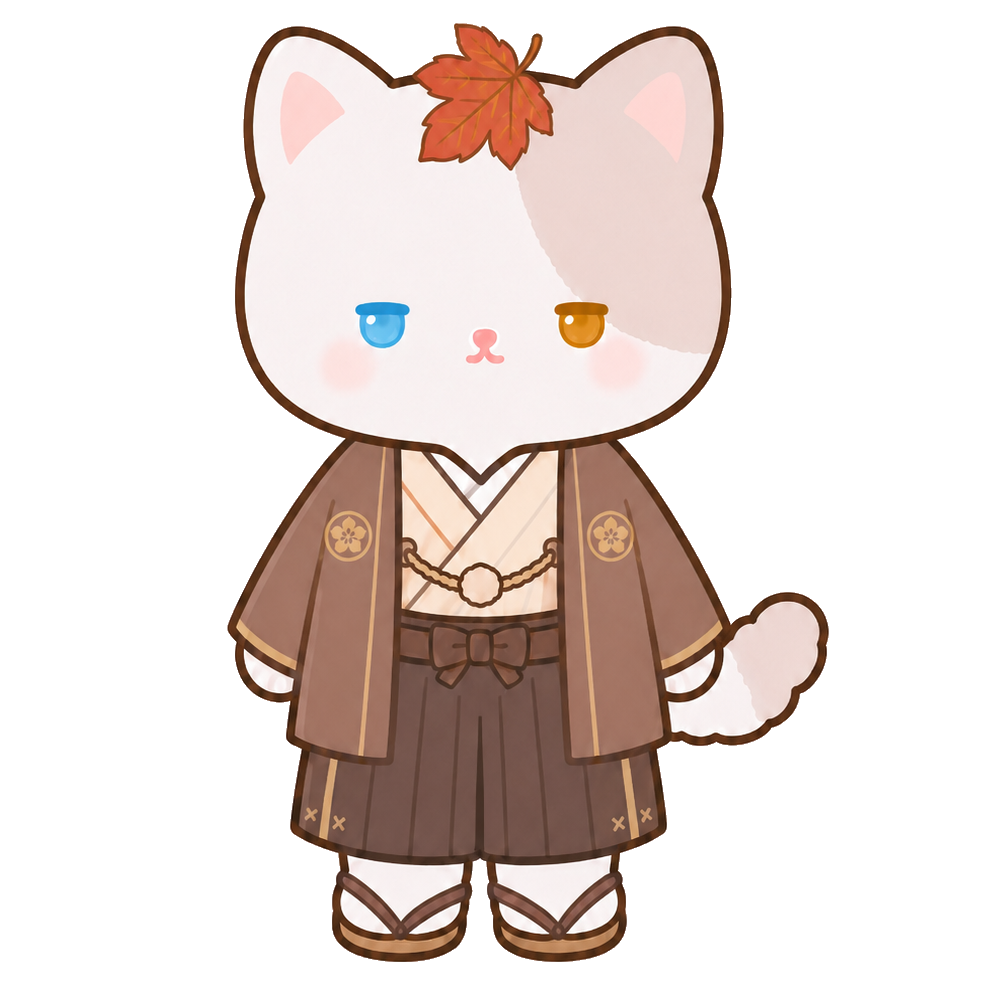
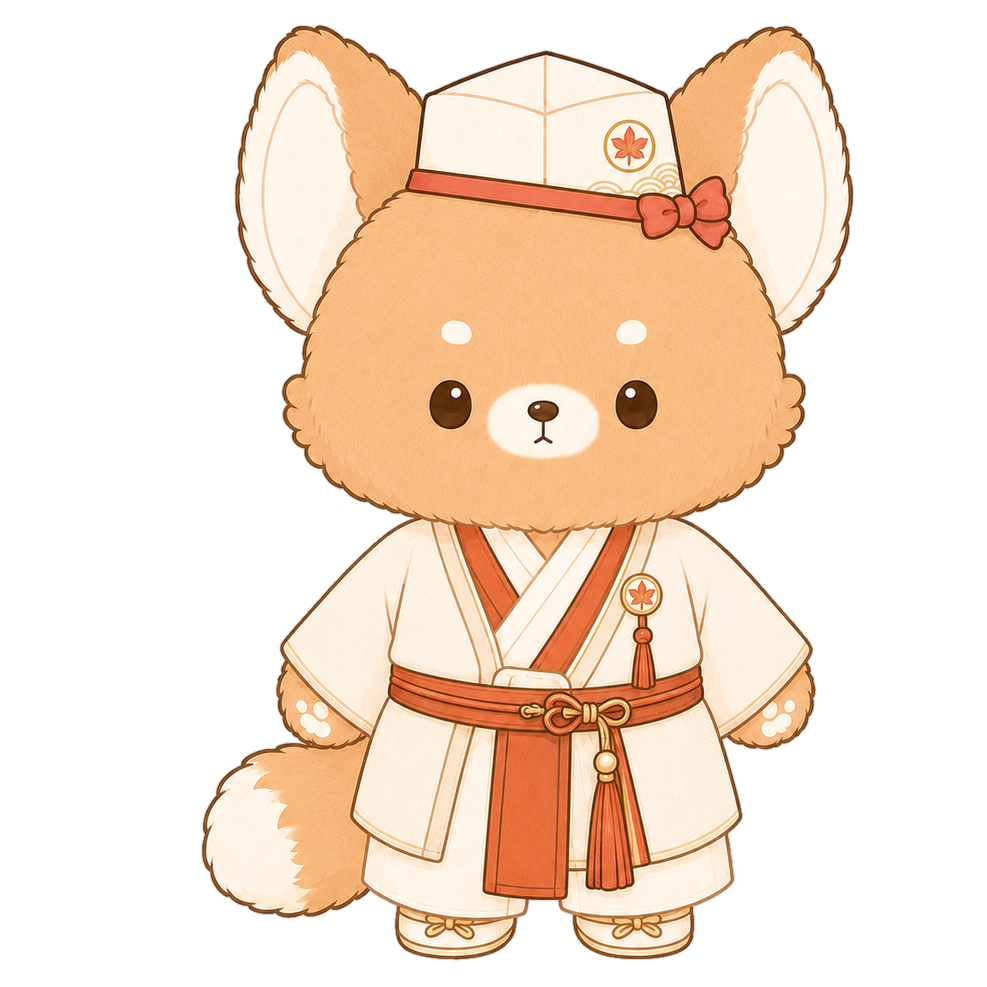
feat(cocoa): new fox art + fix Hanji dev flow, badge order & centering
- Replace Cocoa companion art (assets/images/cocoa/cocoa.png) with the
  new fox-in-kimono, background flood-cut to transparent and framed to
  match the old content box
- Replace sakura-mochi made-badge with the fox-holding-mochi art
- Cocoa bg color -> #CC4B35 (character-obtained celebration)
- Recipe-badge collection: Cocoa now 2nd (reorder RECIPE_BADGES) and
  recentered in its slot for the new art
- Settings dev buttons stamp noteModalTransition() before router.back()
  so armed Home popups aren't dropped mid-dismiss; RecipeBadgeModal now
  gates through useModalSafeVisible like HanjiUnlockModal
- "Unlock Hanji" dev button now replays the full flow: 5/5 badge screen
  then the Hanji unlock celebration
- Reframe Hanji unlock-modal avatar so the head isn't clipped/zoomed

diff --git a/src/app/settings.tsx b/src/app/settings.tsx
@@ -4,6 +4,7 @@ import type { ReactNode } from 'react';
 import { useEffect, useMemo, useState } from 'react';
 import { KeyboardAvoidingView, Linking, Modal, Platform, Pressable, ScrollView, StyleSheet, Switch, TextInput, View } from 'react-native';
 import { showPopup } from '@/lib/popup';
+import { noteModalTransition } from '@/lib/modal-traffic';
 import { SafeAreaView } from 'react-native-safe-area-context';
 
 import { DeleteAccountModal } from '@/components/delete-account-modal';
@@ -494,7 +495,12 @@ export default function SettingsScreen() {
             </Pressable>
             {/* TEST — max out the account: own everything, all badges, 9,999,999 coins, Plus. */}
             <Pressable
-              onPress={() => { devMaxOutAccount(); router.back(); }}
+              // Stamp the anti-freeze signal before closing: these dev buttons arm a
+              // Home popup (a native <Modal> gated by useModalSafeVisible), and Settings
+              // is itself a native modal. Without the stamp the popup tries to present
+              // while Settings is still dismissing and iOS silently drops it — so the
+              // celebration never appears. The stamp makes it wait out the dismiss.
+              onPress={() => { devMaxOutAccount(); noteModalTransition(); router.back(); }}
               style={({ pressed }) => [styles.row, pressed && styles.rowPressed]}>
               <View style={styles.rowIconImage}>
                 <SettingsIcon name="reset" />
@@ -506,7 +512,7 @@ export default function SettingsScreen() {
             </Pressable>
             {/* TEST — preview the bond/chef level-up celebration on Home without studying. */}
             <Pressable
-              onPress={() => { previewBondLevelUp(); router.back(); }}
+              onPress={() => { previewBondLevelUp(); noteModalTransition(); router.back(); }}
               style={({ pressed }) => [styles.row, pressed && styles.rowPressed]}>
               <View style={styles.rowIconImage}>
                 <SettingsIcon name="reset" />
@@ -518,19 +524,19 @@ export default function SettingsScreen() {
             </Pressable>
             {/* TEST — grant all recipes + badges, actually grant Hanji, and show the unlock celebration. */}
             <Pressable
-              onPress={() => { devUnlockHanji(); router.back(); }}
+              onPress={() => { devUnlockHanji(); noteModalTransition(); router.back(); }}
               style={({ pressed }) => [styles.row, pressed && styles.rowPressed]}>
               <View style={styles.rowIconImage}>
                 <SettingsIcon name="reset" />
               </View>
               <View style={styles.rowBody}>
                 <ThemedText type="smallBold">Unlock Hanji</ThemedText>
-                <ThemedText type="small" themeColor="textSecondary">Test button — grants all recipes &amp; badges, gives you Hanji, and shows the unlock celebration on Home</ThemedText>
+                <ThemedText type="small" themeColor="textSecondary">Test button — grants all recipes &amp; badges, gives you Hanji, and shows the 5/5 badge screen then the Hanji unlock celebration on Home</ThemedText>
               </View>
             </Pressable>
             {/* TEST — fake a 1-day streak lapse (+1 freeze) so the "Use streak freeze" rescue prompt shows on Home. */}
             <Pressable
-              onPress={() => { devLapseStreak(); router.back(); }}
+              onPress={() => { devLapseStreak(); noteModalTransition(); router.back(); }}
               style={({ pressed }) => [styles.row, pressed && styles.rowPressed]}>
               <View style={styles.rowIconImage}>
                 <SettingsIcon name="reset" />

diff --git a/src/components/recipe-badge-modal.tsx b/src/components/recipe-badge-modal.tsx
@@ -14,7 +14,7 @@ import { MIN_POPUP_WIDTH, popupMaxWidth } from '@/constants/theme';
 import { useApp } from '@/context/app-context';
 import { useIsTablet } from '@/hooks/use-device-class';
 import { getCompanionImage, localizeCompanionName } from '@/lib/companion-utils';
-import { useReportModalTransition } from '@/lib/modal-traffic';
+import { useModalSafeVisible } from '@/lib/modal-traffic';
 import { RECIPE_BADGES, RECIPE_IDS } from '@/constants/recipes';
 import { useTranslation } from '@/i18n';
 
@@ -26,7 +26,7 @@ const P = { card: '#FFFDF8', pink: '#F491A9', pinkSoft: '#FBDCE4', brown: '#5B3A
 // is the reference (16); the others are raised so their heads aren't cut off.
 const SLOT_OFFSETS: Record<string, { x?: number; y: number; scale?: number }> = {
   '': { y: 8 },
-  'shop:companion_cocoa': { y: 16 },
+  'shop:companion_cocoa': { x: -4, y: 13, scale: 1.06 },
   'shop:companion_bunny': { y: 8 },
   'shop:companion_honey': { x: 1, y: 10, scale: 0.93 },
   'shop:companion_tira': { x: 1, y: 8, scale: 0.93 },
@@ -88,12 +88,18 @@ export function RecipeBadgeModal() {
   // recipe's designated character.
   const justEarned = RECIPE_BADGES.find((b) => b.recipeId === recipeBadgePending);
   const count = RECIPE_BADGES.filter((b) => bakedWith.includes(b.companionId)).length;
-  useReportModalTransition(!!recipeBadgePending && !characterObtainedPending);
+  // Gate presentation through the global settle window (like HanjiUnlockModal) so this
+  // native <Modal> never tries to present while another modal is still dismissing —
+  // e.g. Settings, from which the dev "Unlock Hanji" button arms this popup. iOS
+  // silently drops a mid-dismiss present, which would leave recipeBadgePending stuck
+  // set and, in turn, block the Hanji celebration that's gated behind it.
+  const want = !!recipeBadgePending && !characterObtainedPending;
+  const visible = useModalSafeVisible(want);
 
   // Hold behind the just-obtained-companion card — both are native <Modal>s and
   // co-presenting freezes iOS (see daily-reward-modal).
   return (
-    <Modal visible={!!recipeBadgePending && !characterObtainedPending} transparent animationType="fade" onRequestClose={clearRecipeBadge}>
+    <Modal visible={visible} transparent animationType="fade" onRequestClose={clearRecipeBadge}>
       <View style={styles.root}>
         <Pressable style={styles.backdrop} onPress={clearRecipeBadge} />
         {/* Uniform scale-up on the big iPad — the fixed 320px card reads tiny there. */}

diff --git a/src/context/app-context.tsx b/src/context/app-context.tsx
@@ -2554,12 +2554,14 @@ export function AppProvider({ children }: { children: ReactNode }) {
   };
 
   const clearHanjiUnlock = () => setS((prev) => ({ ...prev, hanjiUnlockPending: false }));
-  // TEST: fully unlock Hanji in one tap — mark every recipe as made (which derives
-  // all five character badges), grant every recipe SKU, actually grant Hanji, and
-  // arm the one-time unlock celebration so you can see it fire. Not gated behind a
-  // recipe-badge popup, so the Hanji modal shows immediately on Home.
+  // TEST: replay the FULL final-badge flow in one tap — mark every recipe as made
+  // (which derives all five character badges), grant every recipe SKU, actually
+  // grant Hanji, and arm the one-time unlock celebration. Also arms the 5/5
+  // recipe-badge progress popup (as if the last badge was just earned): it shows
+  // FIRST, and the Hanji modal — gated on recipeBadgePending being clear — appears
+  // once that popup is dismissed, exactly like the real "bake the last recipe" path.
   const devUnlockHanji = () => {
-    setRecipeBadgePending(null);
+    setRecipeBadgePending(RECIPE_IDS[RECIPE_IDS.length - 1]);
     setS((prev) => {
       const madeFoods = Array.from(new Set([...prev.madeFoods, ...RECIPE_IDS]));
       const recipeSkus = RECIPE_BADGES.map((b) => b.recipeItem).filter((x): x is string => !!x);

diff --git a/src/lib/companion-utils.ts b/src/lib/companion-utils.ts
@@ -255,7 +255,7 @@ export type StarterChoice = {
 };
 export const STARTER_CHOICES: StarterChoice[] = [
   { activeId: 'starter:girl', shopItemId: 'companion_bun', name: 'Bun', image: require('@/assets/images/bun/bun-home.png'), bg: '#ffc9d0' },
-  { activeId: 'shop:companion_cocoa', shopItemId: 'companion_cocoa', name: 'Cocoa', image: require('@/assets/images/cocoa/cocoa.png'), bg: '#c99a73' },
+  { activeId: 'shop:companion_cocoa', shopItemId: 'companion_cocoa', name: 'Cocoa', image: require('@/assets/images/cocoa/cocoa.png'), bg: '#CC4B35' },
   { activeId: 'shop:companion_bunny', shopItemId: 'companion_bunny', name: 'Bunny', image: require('@/assets/images/bunny/bunny.png'), bg: '#ffc2df' },
   { activeId: 'shop:companion_honey', shopItemId: 'companion_honey', name: 'Miel', image: require('@/assets/images/honey/honey.png'), bg: '#ffcd8c' },
   { activeId: 'shop:companion_tira', shopItemId: 'companion_tira', name: 'Tira', image: require('@/assets/images/tira/tira.png'), bg: '#a3d6ff' },

diff --git a/src/constants/recipes.ts b/src/constants/recipes.ts
@@ -13,8 +13,8 @@ export const HANJI_COMPANION_ID = 'companion_hanji';
 // shortcake, which is free for everyone and needs no SKU.
 export const RECIPE_BADGES: { recipeId: string; owner: string; companionId: string; recipeItem: string | null }[] = [
   { recipeId: 'strawberry-shortcake', owner: 'Bun', companionId: '', recipeItem: null },
-  { recipeId: 'berry-croissant', owner: 'Bunny', companionId: 'shop:companion_bunny', recipeItem: 'recipe_croissant' },
   { recipeId: 'sakura-mochi', owner: 'Cocoa', companionId: 'shop:companion_cocoa', recipeItem: 'recipe_sakura' },
+  { recipeId: 'berry-croissant', owner: 'Bunny', companionId: 'shop:companion_bunny', recipeItem: 'recipe_croissant' },
   { recipeId: 'pudding', owner: 'Miel', companionId: 'shop:companion_honey', recipeItem: 'recipe_pudding' },
   { recipeId: 'matcha-crepe', owner: 'Tira', companionId: 'shop:companion_tira', recipeItem: 'recipe_matcha' },
 ];

diff --git a/src/components/hanji-unlock-modal.tsx b/src/components/hanji-unlock-modal.tsx
@@ -72,7 +72,10 @@ const styles = StyleSheet.create({
     width: 100, height: 100, borderRadius: 50, backgroundColor: P.purpleSoft,
     overflow: 'hidden', marginBottom: 2,
   },
-  avatarImg: { width: 180, height: 180, position: 'absolute', top: 0, left: -40 },
+  // Frame Hanji's head (orig px x[216,868], y[10,552] in the 1108² art) inside the
+  // 100px circle with a small margin, centered — larger/offset values zoomed in so
+  // the ears clipped the top edge.
+  avatarImg: { width: 143, height: 143, position: 'absolute', top: 14, left: -20 },
   title: { fontSize: 18, fontWeight: '900', color: P.brown, textAlign: 'center' },
   message: { fontSize: 14, color: P.muted, fontWeight: '600', textAlign: 'center', lineHeight: 20 },
   button: {
